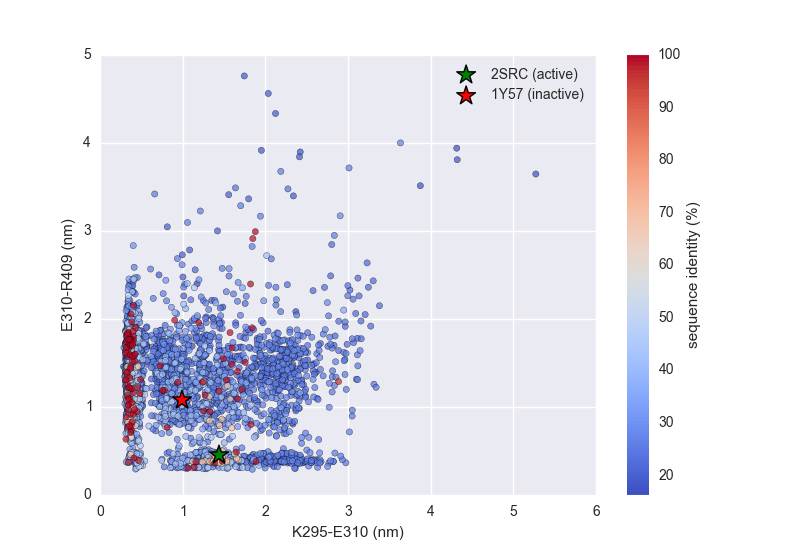
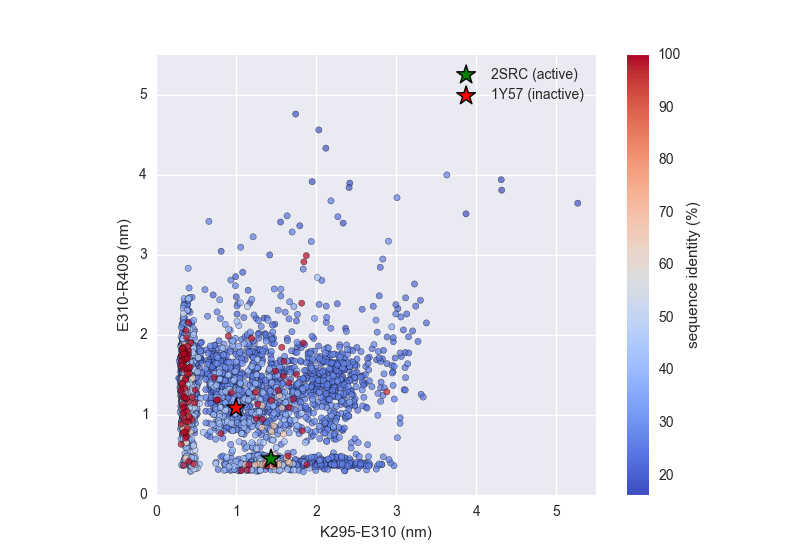
Minor

diff --git a/figures/residue_pair_distances/plot.py b/figures/residue_pair_distances/plot.py
@@ -82,5 +82,8 @@ sns.plt.scatter(pairs_dict[pairs[0]]['ref_distance_inactive'], pairs_dict[pairs[
 sns.plt.xlabel('-'.join(pairs[0]) + ' (nm)')
 sns.plt.ylabel('-'.join(pairs[1]) + ' (nm)')
 sns.plt.legend()
+sns.plt.xlim(0,5.5)
+sns.plt.ylim(0,5.5)
+sns.plt.axes().set_aspect('equal')
 
 sns.plt.savefig('distances.png')
